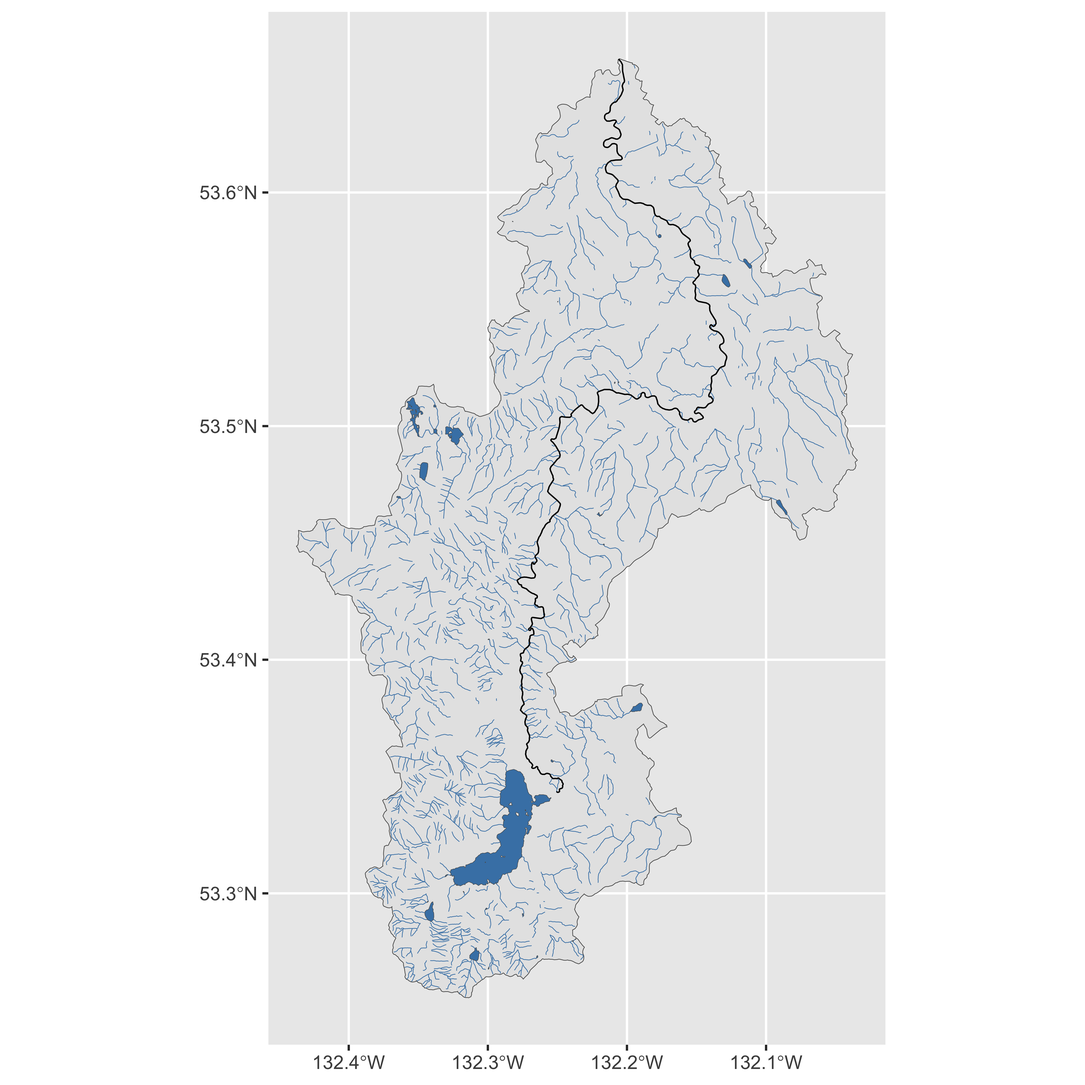
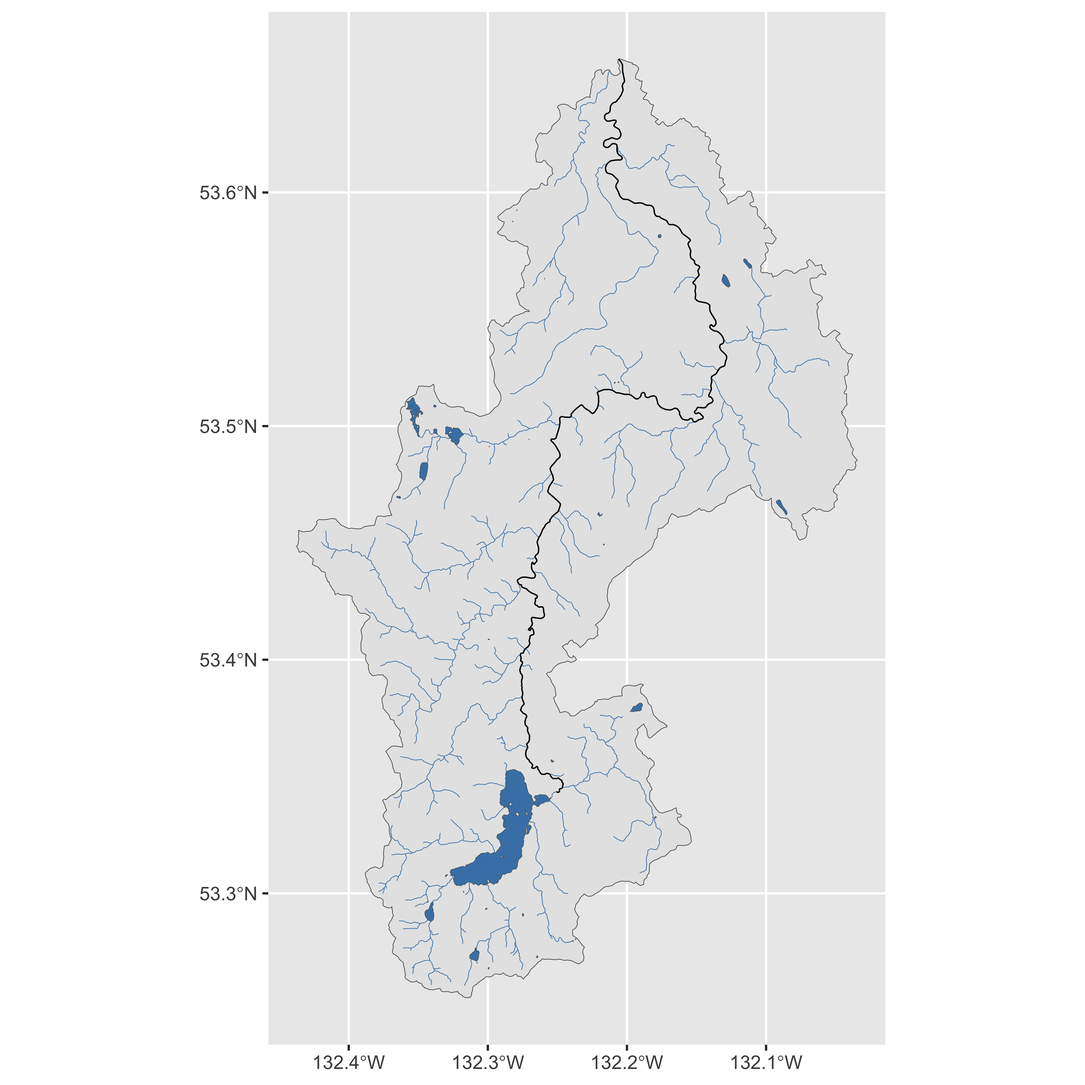
Built site for fwapgr: 0.0.0.9000@8e44dee

diff --git a/articles/fwapgr.html b/articles/fwapgr.html
@@ -77,7 +77,7 @@
 
       
 
-      </header><div class="row">
+      </header><script src="fwapgr_files/accessible-code-block-0.0.1/empty-anchor.js"></script><div class="row">
   <div class="col-md-9 contents">
     <div class="page-header toc-ignore">
       <h1 data-toc-skip>Using fwapgr</h1>
@@ -92,22 +92,25 @@
     
 <p>The <code>fwapgr</code> package is used to retrieve data from the BC Freshwater Atlas. In this article, we’ll get stream, lake, and watershed data to create a map of the Yakoun River watershed in Haida Gwaii, BC.</p>
 <p>We can get started by looking at all available layers and which columns are in a specific layer.</p>
-<div class="sourceCode" id="cb1"><html><body><pre class="r"><span class="kw pkg">fwapgr</span><span class="kw ns">::</span><span class="fu"><a href="../reference/fwa_list_layers.html">fwa_list_layers</a></span>()
+<div class="sourceCode" id="cb1"><pre class="downlit">
+<span class="kw">fwapgr</span>::<span class="fu"><a href="../reference/fwa_list_layers.html">fwa_list_layers</a></span>()
 <span class="co">#&gt; # A tibble: 30 x 7</span>
 <span class="co">#&gt;    f_table_catalog f_table_schema f_table_name f_geometry_colu… coord_dimension</span>
 <span class="co">#&gt;    &lt;chr&gt;           &lt;chr&gt;          &lt;chr&gt;        &lt;chr&gt;                      &lt;int&gt;</span>
 <span class="co">#&gt;  1 postgis         hydrosheds     hybas_lev12… geom                           2</span>
 <span class="co">#&gt;  2 postgis         whse_basemapp… fwa_streams… geom                           4</span>
-<span class="co">#&gt;  3 postgis         whse_fish      fiss_fish_o… geom                           2</span>
-<span class="co">#&gt;  4 postgis         usgs           wbdhu12      geom                           2</span>
-<span class="co">#&gt;  5 postgis         whse_basemapp… fwa_waterbo… geom                           4</span>
-<span class="co">#&gt;  6 postgis         whse_basemapp… fwa_stream_… geom                           4</span>
-<span class="co">#&gt;  7 postgis         whse_basemapp… fwa_watersh… geom                           2</span>
+<span class="co">#&gt;  3 postgis         usgs           wbdhu12      geom                           2</span>
+<span class="co">#&gt;  4 postgis         whse_basemapp… fwa_waterbo… geom                           4</span>
+<span class="co">#&gt;  5 postgis         whse_basemapp… fwa_stream_… geom                           4</span>
+<span class="co">#&gt;  6 postgis         whse_basemapp… fwa_watersh… geom                           2</span>
+<span class="co">#&gt;  7 postgis         whse_basemapp… fwa_basins_… geom                           2</span>
 <span class="co">#&gt;  8 postgis         whse_basemapp… fwa_watersh… geom                           2</span>
-<span class="co">#&gt;  9 postgis         whse_fish      fiss_fish_o… geom                           2</span>
-<span class="co">#&gt; 10 postgis         whse_basemapp… fwa_waterbo… geom                           4</span>
-<span class="co">#&gt; # … with 20 more rows, and 2 more variables: srid &lt;int&gt;, type &lt;chr&gt;</span></pre></body></html></div>
-<div class="sourceCode" id="cb2"><html><body><pre class="r"><span class="kw pkg">fwapgr</span><span class="kw ns">::</span><span class="fu"><a href="../reference/fwa_list_columns.html">fwa_list_columns</a></span>(<span class="st">'fwa_stream_networks_sp'</span>)
+<span class="co">#&gt;  9 postgis         whse_basemapp… fwa_waterbo… geom                           4</span>
+<span class="co">#&gt; 10 postgis         whse_basemapp… fwa_watersh… geom                           4</span>
+<span class="co">#&gt; # … with 20 more rows, and 2 more variables: srid &lt;int&gt;, type &lt;chr&gt;</span>
+</pre></div>
+<div class="sourceCode" id="cb2"><pre class="downlit">
+<span class="kw">fwapgr</span>::<span class="fu"><a href="../reference/fwa_list_columns.html">fwa_list_columns</a></span>(<span class="st">'fwa_stream_networks_sp'</span>)
 <span class="co">#&gt; # A tibble: 27 x 2</span>
 <span class="co">#&gt;    field_name               field_type</span>
 <span class="co">#&gt;    &lt;chr&gt;                    &lt;chr&gt;     </span>
@@ -121,14 +124,18 @@
 <span class="co">#&gt;  8 watershed_group_code     varchar   </span>
 <span class="co">#&gt;  9 downstream_route_measure float8    </span>
 <span class="co">#&gt; 10 length_metre             float8    </span>
-<span class="co">#&gt; # … with 17 more rows</span></pre></body></html></div>
+<span class="co">#&gt; # … with 17 more rows</span>
+</pre></div>
 <p><code>fwa_feature</code> is the workhorse function of <code>fwapgr</code>, allowing us to retrieve data from any available layer in the database and filter using a SQL WHERE statement. To get a linestring feature of the Yakoun river, we could use the ‘fwa_stream_networks_sp’ or ‘fwa_named_streams’ layers and filter by <code>gnis_name</code> column.</p>
-<div class="sourceCode" id="cb3"><html><body><pre class="r"><span class="kw pkg">fwapgr</span><span class="kw ns">::</span><span class="fu"><a href="../reference/fwa_feature.html">fwa_feature</a></span>(<span class="st">"fwa_stream_networks_sp"</span>, <span class="kw">filter</span> <span class="kw">=</span> <span class="st">"gnis_name = 'Yakoun River'"</span>, <span class="kw">columns</span> <span class="kw">=</span> <span class="st">"blue_line_key"</span>)</pre></body></html></div>
+<div class="sourceCode" id="cb3"><pre class="downlit">
+<span class="kw">fwapgr</span>::<span class="fu"><a href="../reference/fwa_feature.html">fwa_feature</a></span>(<span class="st">"fwa_stream_networks_sp"</span>, filter = <span class="st">"gnis_name = 'Yakoun River'"</span>, columns = <span class="st">"blue_line_key"</span>)
+</pre></div>
 <p>However, for this specific case we can use the convenience function <code>fwa_gnis_streams</code> and ensure that we have a valid ‘gnis_name’ by using <code>fwa_search_gnis_streams</code>. We use the <code>columns</code> argument to get the <code>blue_line_key</code> column along with the geometry.</p>
-<div class="sourceCode" id="cb4"><html><body><pre class="r"><span class="fu"><a href="https://rdrr.io/r/base/print.html">print</a></span>(<span class="kw pkg">fwapgr</span><span class="kw ns">::</span><span class="fu"><a href="../reference/fwa_search_gnis_streams.html">fwa_search_gnis_streams</a></span>(<span class="st">"yakoun"</span>))
+<div class="sourceCode" id="cb4"><pre class="downlit">
+<span class="fu"><a href="https://rdrr.io/r/base/print.html">print</a></span>(<span class="kw">fwapgr</span>::<span class="fu"><a href="../reference/fwa_search_gnis_streams.html">fwa_search_gnis_streams</a></span>(<span class="st">"yakoun"</span>))
 <span class="co">#&gt; [1] "Yakoun River"</span>
-<span class="no">yakoun</span> <span class="kw">&lt;-</span> <span class="kw pkg">fwapgr</span><span class="kw ns">::</span><span class="fu"><a href="../reference/fwa_gnis_streams.html">fwa_gnis_streams</a></span>(<span class="st">"Yakoun River"</span>, <span class="kw">columns</span> <span class="kw">=</span> <span class="st">"blue_line_key"</span>)
-<span class="no">yakoun</span>
+<span class="kw">yakoun</span> <span class="op">&lt;-</span> <span class="kw">fwapgr</span>::<span class="fu"><a href="../reference/fwa_gnis_streams.html">fwa_gnis_streams</a></span>(<span class="st">"Yakoun River"</span>, columns = <span class="st">"blue_line_key"</span>)
+<span class="kw">yakoun</span>
 <span class="co">#&gt; Simple feature collection with 129 features and 1 field</span>
 <span class="co">#&gt; geometry type:  LINESTRING</span>
 <span class="co">#&gt; dimension:      XYZ</span>
@@ -146,25 +153,36 @@
 <span class="co">#&gt; 7      360881586 LINESTRING Z (-132.204 53.6...</span>
 <span class="co">#&gt; 8      360881586 LINESTRING Z (-132.2483 53....</span>
 <span class="co">#&gt; 9      360881586 LINESTRING Z (-132.2727 53....</span>
-<span class="co">#&gt; 10     360881586 LINESTRING Z (-132.2687 53....</span></pre></body></html></div>
+<span class="co">#&gt; 10     360881586 LINESTRING Z (-132.2687 53....</span>
+</pre></div>
 <p>Next let’s get the Yakoun River watershed with <code>fwa_watershed</code>, which requires a <code>blue_line_key</code>.</p>
-<div class="sourceCode" id="cb5"><html><body><pre class="r"><span class="no">blue_line_key</span> <span class="kw">&lt;-</span> <span class="fu"><a href="https://rdrr.io/r/base/unique.html">unique</a></span>(<span class="no">yakoun</span>$<span class="no">blue_line_key</span>)
-<span class="no">wshed</span> <span class="kw">&lt;-</span> <span class="kw pkg">fwapgr</span><span class="kw ns">::</span><span class="fu"><a href="../reference/fwa_watershed.html">fwa_watershed</a></span>(<span class="no">blue_line_key</span>)</pre></body></html></div>
+<div class="sourceCode" id="cb5"><pre class="downlit">
+<span class="kw">blue_line_key</span> <span class="op">&lt;-</span> <span class="fu"><a href="https://rdrr.io/r/base/unique.html">unique</a></span>(<span class="kw">yakoun</span><span class="op">$</span><span class="kw">blue_line_key</span>)
+<span class="kw">wshed</span> <span class="op">&lt;-</span> <span class="kw">fwapgr</span>::<span class="fu"><a href="../reference/fwa_watershed.html">fwa_watershed</a></span>(<span class="kw">blue_line_key</span>)
+</pre></div>
 <p>We can use the ‘fwa_lakes_poly’ layer to get lake data and use the <code>bounds</code> argument to only retrieve lakes within the bounding box of the watershed.</p>
-<div class="sourceCode" id="cb6"><html><body><pre class="r"><span class="no">bbox</span> <span class="kw">&lt;-</span> <span class="kw pkg">sf</span><span class="kw ns">::</span><span class="fu"><a href="https://rdrr.io/pkg/sf/man/st_bbox.html">st_bbox</a></span>(<span class="no">wshed</span>)
-<span class="no">lakes</span> <span class="kw">&lt;-</span> <span class="kw pkg">fwapgr</span><span class="kw ns">::</span><span class="fu"><a href="../reference/fwa_feature.html">fwa_feature</a></span>(<span class="st">"fwa_lakes_poly"</span>, <span class="kw">bounds</span> <span class="kw">=</span> <span class="no">bbox</span>)</pre></body></html></div>
+<div class="sourceCode" id="cb6"><pre class="downlit">
+<span class="kw">bbox</span> <span class="op">&lt;-</span> <span class="kw">sf</span>::<span class="fu"><a href="https://rdrr.io/pkg/sf/man/st_bbox.html">st_bbox</a></span>(<span class="kw">wshed</span>)
+<span class="kw">lakes</span> <span class="op">&lt;-</span> <span class="kw">fwapgr</span>::<span class="fu"><a href="../reference/fwa_feature.html">fwa_feature</a></span>(<span class="st">"fwa_lakes_poly"</span>, bounds = <span class="kw">bbox</span>)
+</pre></div>
 <p>Finally, lets get all streams within the watershed bounds that have a ‘stream_order’ less than 3.</p>
-<div class="sourceCode" id="cb7"><html><body><pre class="r"><span class="no">streams</span> <span class="kw">&lt;-</span> <span class="kw pkg">fwapgr</span><span class="kw ns">::</span><span class="fu"><a href="../reference/fwa_feature.html">fwa_feature</a></span>(<span class="st">"fwa_stream_networks_sp"</span>,
-                               <span class="kw">filter</span> <span class="kw">=</span> <span class="st">"stream_order &lt; 3"</span>,
-                               <span class="kw">bounds</span> <span class="kw">=</span> <span class="no">bbox</span>)</pre></body></html></div>
+<div class="sourceCode" id="cb7"><pre class="downlit">
+<span class="kw">streams</span> <span class="op">&lt;-</span> <span class="kw">fwapgr</span>::<span class="fu"><a href="../reference/fwa_feature.html">fwa_feature</a></span>(<span class="st">"fwa_stream_networks_sp"</span>,
+                               filter = <span class="st">"stream_order &gt; 1"</span>,
+                               bounds = <span class="kw">bbox</span>)
+</pre></div>
 <p>To make the map look a little prettier, we can clip the stream and lake layers to the watershed polygon.</p>
-<div class="sourceCode" id="cb8"><html><body><pre class="r"><span class="no">streams</span> <span class="kw">&lt;-</span> <span class="kw pkg">sf</span><span class="kw ns">::</span><span class="fu"><a href="https://rdrr.io/pkg/sf/man/geos_binary_ops.html">st_intersection</a></span>(<span class="no">streams</span>, <span class="no">wshed</span>)
-<span class="no">lakes</span> <span class="kw">&lt;-</span> <span class="kw pkg">sf</span><span class="kw ns">::</span><span class="fu"><a href="https://rdrr.io/pkg/sf/man/geos_binary_ops.html">st_intersection</a></span>(<span class="no">lakes</span>, <span class="no">wshed</span>)</pre></body></html></div>
-<div class="sourceCode" id="cb9"><html><body><pre class="r"><span class="kw pkg">ggplot2</span><span class="kw ns">::</span><span class="fu"><a href="https://ggplot2.tidyverse.org/reference/ggplot.html">ggplot</a></span>(<span class="kw">data</span> <span class="kw">=</span> <span class="no">yakoun</span>) +
-  <span class="kw pkg">ggplot2</span><span class="kw ns">::</span><span class="fu"><a href="https://ggplot2.tidyverse.org/reference/ggsf.html">geom_sf</a></span>(<span class="kw">data</span> <span class="kw">=</span> <span class="no">wshed</span>, <span class="kw">lwd</span> <span class="kw">=</span> <span class="fl">0.15</span>) +
-  <span class="kw pkg">ggplot2</span><span class="kw ns">::</span><span class="fu"><a href="https://ggplot2.tidyverse.org/reference/ggsf.html">geom_sf</a></span>(<span class="kw">data</span> <span class="kw">=</span> <span class="no">streams</span>, <span class="kw">lwd</span> <span class="kw">=</span> <span class="fl">0.15</span>, <span class="kw">colour</span> <span class="kw">=</span> <span class="st">'steelblue'</span>) +
-  <span class="kw pkg">ggplot2</span><span class="kw ns">::</span><span class="fu"><a href="https://ggplot2.tidyverse.org/reference/ggsf.html">geom_sf</a></span>(<span class="kw">lwd</span> <span class="kw">=</span> <span class="fl">0.3</span>) +
-  <span class="kw pkg">ggplot2</span><span class="kw ns">::</span><span class="fu"><a href="https://ggplot2.tidyverse.org/reference/ggsf.html">geom_sf</a></span>(<span class="kw">data</span> <span class="kw">=</span> <span class="no">lakes</span>, <span class="kw">fill</span> <span class="kw">=</span> <span class="st">"steelblue"</span>, <span class="kw">lwd</span> <span class="kw">=</span> <span class="fl">0.1</span>)</pre></body></html></div>
+<div class="sourceCode" id="cb8"><pre class="downlit">
+<span class="kw">streams</span> <span class="op">&lt;-</span> <span class="kw">sf</span>::<span class="fu"><a href="https://rdrr.io/pkg/sf/man/geos_binary_ops.html">st_intersection</a></span>(<span class="kw">streams</span>, <span class="kw">wshed</span>)
+<span class="kw">lakes</span> <span class="op">&lt;-</span> <span class="kw">sf</span>::<span class="fu"><a href="https://rdrr.io/pkg/sf/man/geos_binary_ops.html">st_intersection</a></span>(<span class="kw">lakes</span>, <span class="kw">wshed</span>)
+</pre></div>
+<div class="sourceCode" id="cb9"><pre class="downlit">
+<span class="kw">ggplot2</span>::<span class="fu"><a href="https://ggplot2.tidyverse.org/reference/ggplot.html">ggplot</a></span>(data = <span class="kw">yakoun</span>) <span class="op">+</span>
+  <span class="kw">ggplot2</span>::<span class="fu"><a href="https://ggplot2.tidyverse.org/reference/ggsf.html">geom_sf</a></span>(data = <span class="kw">wshed</span>, lwd = <span class="fl">0.15</span>) <span class="op">+</span>
+  <span class="kw">ggplot2</span>::<span class="fu"><a href="https://ggplot2.tidyverse.org/reference/ggsf.html">geom_sf</a></span>(data = <span class="kw">streams</span>, lwd = <span class="fl">0.15</span>, colour = <span class="st">'steelblue'</span>) <span class="op">+</span>
+  <span class="kw">ggplot2</span>::<span class="fu"><a href="https://ggplot2.tidyverse.org/reference/ggsf.html">geom_sf</a></span>(lwd = <span class="fl">0.3</span>) <span class="op">+</span>
+  <span class="kw">ggplot2</span>::<span class="fu"><a href="https://ggplot2.tidyverse.org/reference/ggsf.html">geom_sf</a></span>(data = <span class="kw">lakes</span>, fill = <span class="st">"steelblue"</span>, lwd = <span class="fl">0.1</span>)
+</pre></div>
 <p><img src="fwapgr_files/figure-html/unnamed-chunk-11-1.png" width="2100"></p>
   </div>
 

diff --git a/index.html b/index.html
@@ -85,7 +85,7 @@
 </h1></div>
 <!-- badges: start -->
 
-<p>An R package 📦 for retrieving data from the <a href="https://www2.gov.bc.ca/gov/content/data/geographic-data-services/topographic-data/freshwater">B.C. Freshwater Atlas</a>. Data are provided as <a href="https://github.com/r-spatial/sf">simple features</a>.</p>
+<p>An R package 📦 for retrieving data from the <a href="https://www2.gov.bc.ca/gov/content/data/geographic-data-services/topographic-data/freshwater">B.C. Freshwater Atlas</a> using <a href="https://github.com/smnorris/fwapg">fwapg</a>. Data are provided as <a href="https://github.com/r-spatial/sf">simple features</a>.</p>
 <ul>
 <li>
 <code>fwa_()</code> - Get features from a layer.</li>
@@ -100,37 +100,41 @@
 <h2 class="hasAnchor">
 <a href="#installation" class="anchor"></a>Installation</h2>
 <p>To install the developmental version from <a href="https://github.com/poissonconsulting/fwapgr">GitHub</a></p>
-<div class="sourceCode" id="cb1"><pre class="r"><span class="co"># install.packages("remotes")</span>
-<span class="kw pkg">remotes</span><span class="kw ns">::</span><span class="fu"><a href="https://remotes.r-lib.org/reference/install_github.html">install_github</a></span>(<span class="st">"poissonconsulting/fwapgr"</span>)</pre></div>
+<div class="sourceCode" id="cb1"><pre class="downlit">
+<span class="co"># install.packages("remotes")</span>
+<span class="kw">remotes</span>::<span class="fu"><a href="https://remotes.r-lib.org/reference/install_github.html">install_github</a></span>(<span class="st">"poissonconsulting/fwapgr"</span>)
+</pre></div>
 </div>
 <div id="demonstration" class="section level2">
 <h2 class="hasAnchor">
 <a href="#demonstration" class="anchor"></a>Demonstration</h2>
-<div class="sourceCode" id="cb2"><pre class="r"><span class="kw pkg">fwapgr</span><span class="kw ns">::</span><span class="fu"><a href="reference/fwa_search_gnis_streams.html">fwa_search_gnis_streams</a></span>(<span class="st">"yakoun"</span>)
+<div class="sourceCode" id="cb2"><pre class="downlit">
+<span class="kw">fwapgr</span>::<span class="fu"><a href="reference/fwa_search_gnis_streams.html">fwa_search_gnis_streams</a></span>(<span class="st">"yakoun"</span>)
 <span class="co">#&gt; [1] "Yakoun River"</span>
 
-<span class="no">yakoun</span> <span class="kw">&lt;-</span> <span class="kw pkg">fwapgr</span><span class="kw ns">::</span><span class="fu"><a href="reference/fwa_feature.html">fwa_feature</a></span>(<span class="st">"fwa_stream_networks_sp"</span>,
-                              <span class="kw">filter</span> <span class="kw">=</span> <span class="st">"gnis_name = 'Yakoun River'"</span>,
-                              <span class="kw">columns</span> <span class="kw">=</span> <span class="fu"><a href="https://rdrr.io/r/base/c.html">c</a></span>(<span class="st">"gnis_name"</span>))
-<span class="no">yakoun</span>
+<span class="kw">yakoun</span> <span class="op">&lt;-</span> <span class="kw">fwapgr</span>::<span class="fu"><a href="reference/fwa_feature.html">fwa_feature</a></span>(<span class="st">"fwa_stream_networks_sp"</span>, 
+                              filter = <span class="st">"gnis_name = 'Yakoun River'"</span>, 
+                              columns = <span class="fu"><a href="https://rdrr.io/r/base/c.html">c</a></span>(<span class="st">"gnis_name"</span>))
+<span class="kw">yakoun</span>
 <span class="co">#&gt; Simple feature collection with 129 features and 1 field</span>
-<span class="co">#&gt; geometry type:  MULTILINESTRING</span>
+<span class="co">#&gt; geometry type:  LINESTRING</span>
 <span class="co">#&gt; dimension:      XYZ</span>
 <span class="co">#&gt; bbox:           xmin: -132.2789 ymin: 53.34324 xmax: -132.1283 ymax: 53.65705</span>
 <span class="co">#&gt; z_range:        zmin: 1 zmax: 99</span>
 <span class="co">#&gt; CRS:            4326</span>
 <span class="co">#&gt; First 10 features:</span>
 <span class="co">#&gt;       gnis_name                       geometry</span>
-<span class="co">#&gt; 1  Yakoun River MULTILINESTRING Z ((-132.26...</span>
-<span class="co">#&gt; 2  Yakoun River MULTILINESTRING Z ((-132.19...</span>
-<span class="co">#&gt; 3  Yakoun River MULTILINESTRING Z ((-132.14...</span>
-<span class="co">#&gt; 4  Yakoun River MULTILINESTRING Z ((-132.26...</span>
-<span class="co">#&gt; 5  Yakoun River MULTILINESTRING Z ((-132.27...</span>
-<span class="co">#&gt; 6  Yakoun River MULTILINESTRING Z ((-132.20...</span>
-<span class="co">#&gt; 7  Yakoun River MULTILINESTRING Z ((-132.26...</span>
-<span class="co">#&gt; 8  Yakoun River MULTILINESTRING Z ((-132.27...</span>
-<span class="co">#&gt; 9  Yakoun River MULTILINESTRING Z ((-132.14...</span>
-<span class="co">#&gt; 10 Yakoun River MULTILINESTRING Z ((-132.27...</span></pre></div>
+<span class="co">#&gt; 1  Yakoun River LINESTRING Z (-132.2658 53....</span>
+<span class="co">#&gt; 2  Yakoun River LINESTRING Z (-132.14 53.51...</span>
+<span class="co">#&gt; 3  Yakoun River LINESTRING Z (-132.2742 53....</span>
+<span class="co">#&gt; 4  Yakoun River LINESTRING Z (-132.1965 53....</span>
+<span class="co">#&gt; 5  Yakoun River LINESTRING Z (-132.2088 53....</span>
+<span class="co">#&gt; 6  Yakoun River LINESTRING Z (-132.253 53.4...</span>
+<span class="co">#&gt; 7  Yakoun River LINESTRING Z (-132.204 53.6...</span>
+<span class="co">#&gt; 8  Yakoun River LINESTRING Z (-132.2483 53....</span>
+<span class="co">#&gt; 9  Yakoun River LINESTRING Z (-132.2727 53....</span>
+<span class="co">#&gt; 10 Yakoun River LINESTRING Z (-132.2687 53....</span>
+</pre></div>
 </div>
 <div id="information" class="section level2">
 <h2 class="hasAnchor">

diff --git a/reference/fwa_list_layers.html b/reference/fwa_list_layers.html
@@ -144,14 +144,14 @@
 #&gt;    </span><span style='color: #555555;font-style: italic;'>&lt;chr&gt;</span><span>           </span><span style='color: #555555;font-style: italic;'>&lt;chr&gt;</span><span>          </span><span style='color: #555555;font-style: italic;'>&lt;chr&gt;</span><span>        </span><span style='color: #555555;font-style: italic;'>&lt;chr&gt;</span><span>                      </span><span style='color: #555555;font-style: italic;'>&lt;int&gt;</span><span>
 #&gt; </span><span style='color: #555555;'> 1</span><span> postgis         hydrosheds     hybas_lev12… geom                           2
 #&gt; </span><span style='color: #555555;'> 2</span><span> postgis         whse_basemapp… fwa_streams… geom                           4
-#&gt; </span><span style='color: #555555;'> 3</span><span> postgis         whse_fish      fiss_fish_o… geom                           2
-#&gt; </span><span style='color: #555555;'> 4</span><span> postgis         usgs           wbdhu12      geom                           2
-#&gt; </span><span style='color: #555555;'> 5</span><span> postgis         whse_basemapp… fwa_waterbo… geom                           4
-#&gt; </span><span style='color: #555555;'> 6</span><span> postgis         whse_basemapp… fwa_stream_… geom                           4
-#&gt; </span><span style='color: #555555;'> 7</span><span> postgis         whse_basemapp… fwa_watersh… geom                           2
+#&gt; </span><span style='color: #555555;'> 3</span><span> postgis         usgs           wbdhu12      geom                           2
+#&gt; </span><span style='color: #555555;'> 4</span><span> postgis         whse_basemapp… fwa_waterbo… geom                           4
+#&gt; </span><span style='color: #555555;'> 5</span><span> postgis         whse_basemapp… fwa_stream_… geom                           4
+#&gt; </span><span style='color: #555555;'> 6</span><span> postgis         whse_basemapp… fwa_watersh… geom                           2
+#&gt; </span><span style='color: #555555;'> 7</span><span> postgis         whse_basemapp… fwa_basins_… geom                           2
 #&gt; </span><span style='color: #555555;'> 8</span><span> postgis         whse_basemapp… fwa_watersh… geom                           2
-#&gt; </span><span style='color: #555555;'> 9</span><span> postgis         whse_fish      fiss_fish_o… geom                           2
-#&gt; </span><span style='color: #555555;'>10</span><span> postgis         whse_basemapp… fwa_waterbo… geom                           4
+#&gt; </span><span style='color: #555555;'> 9</span><span> postgis         whse_basemapp… fwa_waterbo… geom                           4
+#&gt; </span><span style='color: #555555;'>10</span><span> postgis         whse_basemapp… fwa_watersh… geom                           4
 #&gt; </span><span style='color: #555555;'># … with 20 more rows, and 2 more variables: srid </span><span style='color: #555555;font-style: italic;'>&lt;int&gt;</span><span style='color: #555555;'>, type </span><span style='color: #555555;font-style: italic;'>&lt;chr&gt;</span><span></div></span></pre>
   </div>
   <div class="col-md-3 hidden-xs hidden-sm" id="pkgdown-sidebar">

diff --git a/reference/fwa_feature.html b/reference/fwa_feature.html
@@ -132,13 +132,13 @@
     </div>
 
     <pre class="usage"><span class='fu'>fwa_feature</span>(
-  <span class='no'>table</span>,
-  <span class='kw'>filter</span> <span class='kw'>=</span> <span class='kw'>NULL</span>,
-  <span class='kw'>columns</span> <span class='kw'>=</span> <span class='kw'>NULL</span>,
-  <span class='kw'>bounds</span> <span class='kw'>=</span> <span class='kw'>NULL</span>,
-  <span class='kw'>geom_column</span> <span class='kw'>=</span> <span class='st'>"geom"</span>,
-  <span class='kw'>epsg</span> <span class='kw'>=</span> <span class='fl'>4326</span>,
-  <span class='kw'>schema</span> <span class='kw'>=</span> <span class='st'>"whse_basemapping"</span>
+  <span class='kw'>table</span>,
+  filter = <span class='kw'>NULL</span>,
+  columns = <span class='kw'>NULL</span>,
+  bounds = <span class='kw'>NULL</span>,
+  geom_column = <span class='st'>"geom"</span>,
+  epsg = <span class='fl'>4326</span>,
+  schema = <span class='st'>"whse_basemapping"</span>
 )</pre>
 
     <h2 class="hasAnchor" id="arguments"><a class="anchor" href="#arguments"></a>Arguments</h2>
@@ -179,7 +179,7 @@
     <p>A sf object</p>
 
     <h2 class="hasAnchor" id="examples"><a class="anchor" href="#examples"></a>Examples</h2>
-    <pre class="examples"><div class='input'><span class='fu'>fwa_feature</span>(<span class='st'>"fwa_stream_networks_sp"</span>, <span class='kw'>filter</span> <span class='kw'>=</span> <span class='st'>"gnis_name = 'Sangan River'"</span>)</div><div class='output co'>#&gt; Simple feature collection with 21 features and 0 fields
+    <pre class="examples"><div class='input'><span class='fu'>fwa_feature</span>(<span class='st'>"fwa_stream_networks_sp"</span>, filter = <span class='st'>"gnis_name = 'Sangan River'"</span>)</div><div class='output co'>#&gt; Simple feature collection with 21 features and 0 fields
 #&gt; geometry type:  LINESTRING
 #&gt; dimension:      XYZ
 #&gt; bbox:           xmin: -131.9972 ymin: 53.94994 xmax: -131.9168 ymax: 54.0332

diff --git a/reference/fwa_bbox.html b/reference/fwa_bbox.html
@@ -132,11 +132,11 @@
     </div>
 
     <pre class="usage"><span class='fu'>fwa_bbox</span>(
-  <span class='no'>table</span>,
-  <span class='kw'>filter</span> <span class='kw'>=</span> <span class='kw'>NULL</span>,
-  <span class='kw'>geom_column</span> <span class='kw'>=</span> <span class='st'>"geom"</span>,
-  <span class='kw'>epsg</span> <span class='kw'>=</span> <span class='fl'>4326</span>,
-  <span class='kw'>schema</span> <span class='kw'>=</span> <span class='st'>"whse_basemapping"</span>
+  <span class='kw'>table</span>,
+  filter = <span class='kw'>NULL</span>,
+  geom_column = <span class='st'>"geom"</span>,
+  epsg = <span class='fl'>4326</span>,
+  schema = <span class='st'>"whse_basemapping"</span>
 )</pre>
 
     <h2 class="hasAnchor" id="arguments"><a class="anchor" href="#arguments"></a>Arguments</h2>
@@ -169,7 +169,7 @@
     <p>A sf object</p>
 
     <h2 class="hasAnchor" id="examples"><a class="anchor" href="#examples"></a>Examples</h2>
-    <pre class="examples"><div class='input'><span class='fu'>fwa_bbox</span>(<span class='st'>"fwa_stream_networks_sp"</span>, <span class='kw'>filter</span> <span class='kw'>=</span> <span class='st'>"gnis_name = 'Cowichan River'"</span>)</div><div class='output co'>#&gt;       xmin       ymin       xmax       ymax 
+    <pre class="examples"><div class='input'><span class='fu'>fwa_bbox</span>(<span class='st'>"fwa_stream_networks_sp"</span>, filter = <span class='st'>"gnis_name = 'Cowichan River'"</span>)</div><div class='output co'>#&gt;       xmin       ymin       xmax       ymax 
 #&gt; -124.06119   48.75324 -123.63630   48.83145 
 #&gt; attr(,"class")
 #&gt; [1] "bbox"</div></pre>

diff --git a/reference/fwa_gnis_streams.html b/reference/fwa_gnis_streams.html
@@ -132,12 +132,12 @@
     </div>
 
     <pre class="usage"><span class='fu'>fwa_gnis_streams</span>(
-  <span class='no'>gnis_name</span>,
-  <span class='kw'>columns</span> <span class='kw'>=</span> <span class='kw'>NULL</span>,
-  <span class='kw'>bounds</span> <span class='kw'>=</span> <span class='kw'>NULL</span>,
-  <span class='kw'>geom_column</span> <span class='kw'>=</span> <span class='st'>"geom"</span>,
-  <span class='kw'>epsg</span> <span class='kw'>=</span> <span class='fl'>4326</span>,
-  <span class='kw'>named_streams</span> <span class='kw'>=</span> <span class='fl'>FALSE</span>
+  <span class='kw'>gnis_name</span>,
+  columns = <span class='kw'>NULL</span>,
+  bounds = <span class='kw'>NULL</span>,
+  geom_column = <span class='st'>"geom"</span>,
+  epsg = <span class='fl'>4326</span>,
+  named_streams = <span class='fl'>FALSE</span>
 )</pre>
 
     <h2 class="hasAnchor" id="arguments"><a class="anchor" href="#arguments"></a>Arguments</h2>

diff --git a/reference/fwa_watershed.html b/reference/fwa_watershed.html
@@ -131,7 +131,7 @@
     <p>Get watershed upstream of a location on a stream.</p>
     </div>
 
-    <pre class="usage"><span class='fu'>fwa_watershed</span>(<span class='no'>blue_line_key</span>, <span class='kw'>downstream_route_measure</span> <span class='kw'>=</span> <span class='fl'>0</span>, <span class='kw'>epsg</span> <span class='kw'>=</span> <span class='fl'>4326</span>)</pre>
+    <pre class="usage"><span class='fu'>fwa_watershed</span>(<span class='kw'>blue_line_key</span>, downstream_route_measure = <span class='fl'>0</span>, epsg = <span class='fl'>4326</span>)</pre>
 
     <h2 class="hasAnchor" id="arguments"><a class="anchor" href="#arguments"></a>Arguments</h2>
     <table class="ref-arguments">

diff --git a/articles/fwapgr_files/accessible-code-block-0.0.1/empty-anchor.js b/articles/fwapgr_files/accessible-code-block-0.0.1/empty-anchor.js
@@ -1,0 +1,15 @@
+// Hide empty <a> tag within highlighted CodeBlock for screen reader accessibility (see https://github.com/jgm/pandoc/issues/6352#issuecomment-626106786) -->
+// v0.0.1
+// Written by JooYoung Seo (jooyoung@psu.edu) and Atsushi Yasumoto on June 1st, 2020.
+
+document.addEventListener('DOMContentLoaded', function() {
+  const codeList = document.getElementsByClassName("sourceCode");
+  for (var i = 0; i < codeList.length; i++) {
+    var linkList = codeList[i].getElementsByTagName('a');
+    for (var j = 0; j < linkList.length; j++) {
+      if (linkList[j].innerHTML === "") {
+        linkList[j].setAttribute('aria-hidden', 'true');
+      }
+    }
+  }
+});

diff --git a/reference/fwa_search_gnis_streams.html b/reference/fwa_search_gnis_streams.html
@@ -131,7 +131,7 @@
     <p>Match valid stream gnis_name with regular expression.</p>
     </div>
 
-    <pre class="usage"><span class='fu'>fwa_search_gnis_streams</span>(<span class='kw'>gnis_name</span> <span class='kw'>=</span> <span class='kw'>NULL</span>, <span class='kw'>ignore_case</span> <span class='kw'>=</span> <span class='fl'>TRUE</span>)</pre>
+    <pre class="usage"><span class='fu'>fwa_search_gnis_streams</span>(gnis_name = <span class='kw'>NULL</span>, ignore_case = <span class='fl'>TRUE</span>)</pre>
 
     <h2 class="hasAnchor" id="arguments"><a class="anchor" href="#arguments"></a>Arguments</h2>
     <table class="ref-arguments">

diff --git a/reference/fwa_list_gnis_streams.html b/reference/fwa_list_gnis_streams.html
@@ -131,7 +131,7 @@
     <p>List information on named streams including gnis_name.</p>
     </div>
 
-    <pre class="usage"><span class='fu'>fwa_list_gnis_streams</span>(<span class='kw'>gnis_name</span> <span class='kw'>=</span> <span class='kw'>NULL</span>, <span class='kw'>ignore_case</span> <span class='kw'>=</span> <span class='fl'>TRUE</span>)</pre>
+    <pre class="usage"><span class='fu'>fwa_list_gnis_streams</span>(gnis_name = <span class='kw'>NULL</span>, ignore_case = <span class='fl'>TRUE</span>)</pre>
 
     <h2 class="hasAnchor" id="arguments"><a class="anchor" href="#arguments"></a>Arguments</h2>
     <table class="ref-arguments">

diff --git a/reference/fwa_list_columns.html b/reference/fwa_list_columns.html
@@ -131,7 +131,7 @@
     <p>List columns in a table.</p>
     </div>
 
-    <pre class="usage"><span class='fu'>fwa_list_columns</span>(<span class='no'>table</span>)</pre>
+    <pre class="usage"><span class='fu'>fwa_list_columns</span>(<span class='kw'>table</span>)</pre>
 
     <h2 class="hasAnchor" id="arguments"><a class="anchor" href="#arguments"></a>Arguments</h2>
     <table class="ref-arguments">
